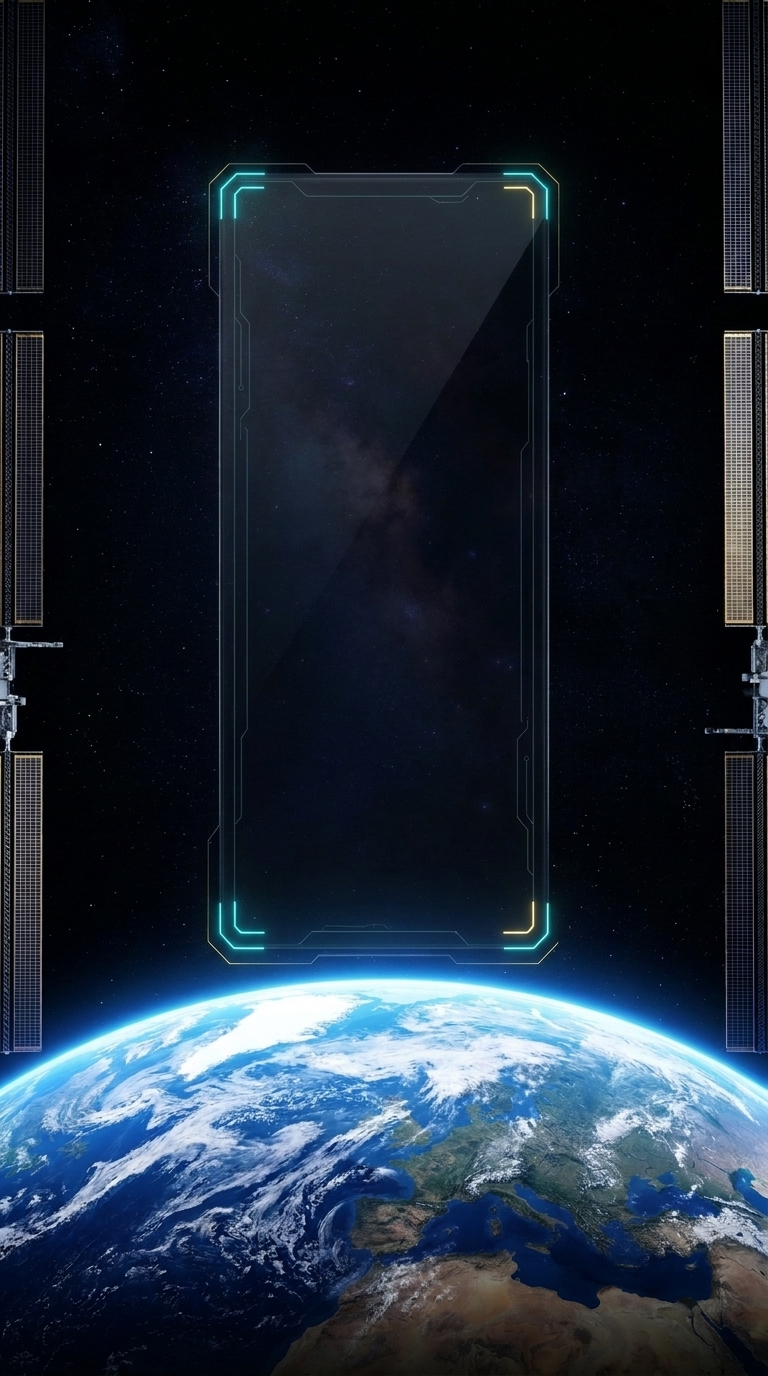
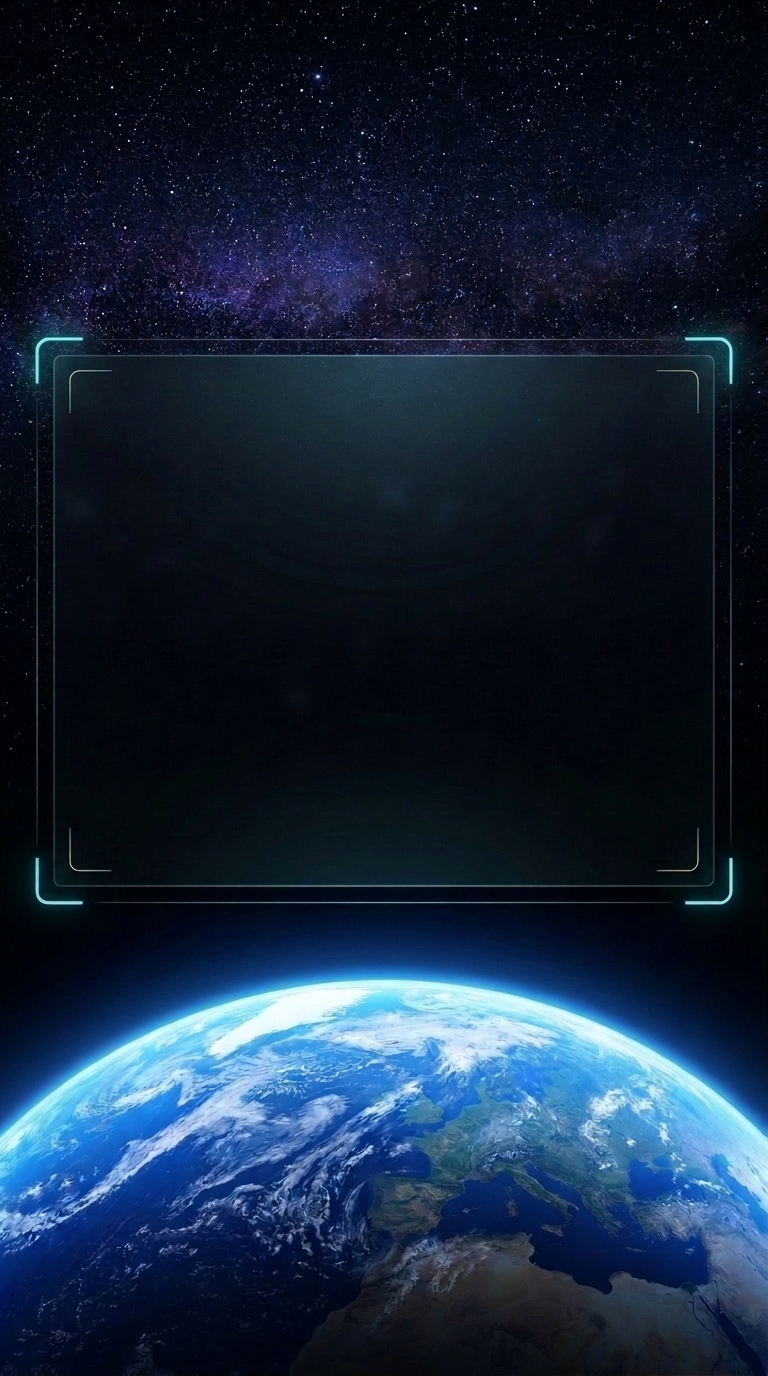
Widen Space Haiku HUD frame to 840px and double digital text size to 58px bold

diff --git a/tanka/index.html b/tanka/index.html
@@ -584,14 +584,14 @@
   const LIMERICK_SAFE_CENTER_X_PX = Math.round((LIMERICK_SAFE_LEFT_X_PX + LIMERICK_SAFE_RIGHT_X_PX) / 2); // = 463px
   const LIMERICK_SAFE_WIDTH_PX = LIMERICK_SAFE_RIGHT_X_PX - LIMERICK_SAFE_LEFT_X_PX; // = 495px
 
-  // 宇宙俳句（Project Suncatcher ホログラムHUDフレーム中央配置定数）
+  // 宇宙俳句（Project Suncatcher ワイドホログラムHUDフレーム中央配置定数）
   const SUNCATCHER_SAFE_CENTER_X_PX = 540;
-  const SUNCATCHER_SAFE_WIDTH_PX = 420;
-  const SUNCATCHER_START_Y_3LINES_PX = 560;
-  const SUNCATCHER_LINE_PITCH_3LINES_PX = 160;
-  const SUNCATCHER_AUTHOR_Y_PX = 1140;
-  const SUNCATCHER_GLOW_BLUR_PX = 14;
-  const SUNCATCHER_AUTHOR_GLOW_BLUR_PX = 10;
+  const SUNCATCHER_SAFE_WIDTH_PX = 840;
+  const SUNCATCHER_START_Y_3LINES_PX = 640;
+  const SUNCATCHER_LINE_PITCH_3LINES_PX = 155;
+  const SUNCATCHER_AUTHOR_Y_PX = 1125;
+  const SUNCATCHER_GLOW_BLUR_PX = 18;
+  const SUNCATCHER_AUTHOR_GLOW_BLUR_PX = 12;
 
   // 【縦書き用】列X座標定数（右から左へ並ぶ）
   const HAIKU_LINE_X_COORDS_PX = [645, 490, 335];
@@ -825,16 +825,16 @@
     suncatcher: {
       id: 'suncatcher',
       label: '🛰 宇宙俳句 (Space Haiku)',
-      bgPath: 'shortliterature/bg_9_suncatcher.jpg',
+      bgPath: 'shortliterature/bg_9_suncatcher.jpg?v=2',
       layoutMode: 'horizontal_suncatcher',
       fontFamily: '"Share Tech Mono", "DotGothic16", monospace',
       fontLabel: 'Share Tech Mono / DotGothic16 (Digital HUD)',
-      fontWeight: '400',
-      textColor: '#e6fbff',
+      fontWeight: '700',
+      textColor: '#ffffff',
       authorColor: '#ffd97d',
       startY: SUNCATCHER_START_Y_3LINES_PX,
       linePitchY: SUNCATCHER_LINE_PITCH_3LINES_PX,
-      baseFontSize: 38,
+      baseFontSize: 58,
       defaultAuthor: 'Project Suncatcher',
       fields: [
         { label: 'Line 1 (5 syllables / 上五)', hint: '5音節 / 5音', defaultText: 'Blue marble below,', maxLength: 42 },
